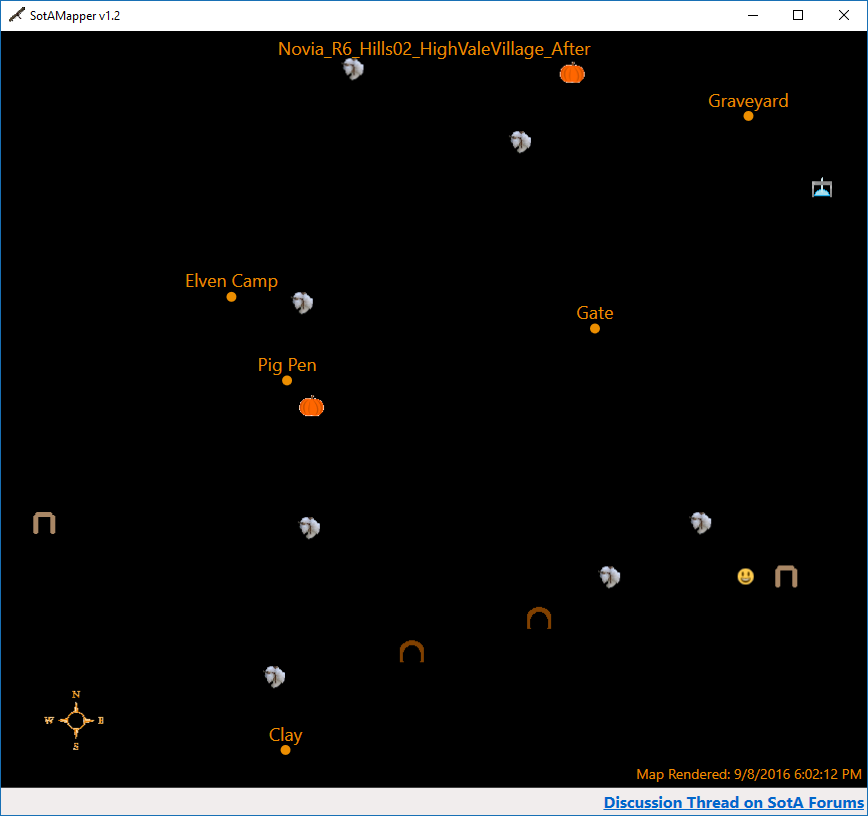
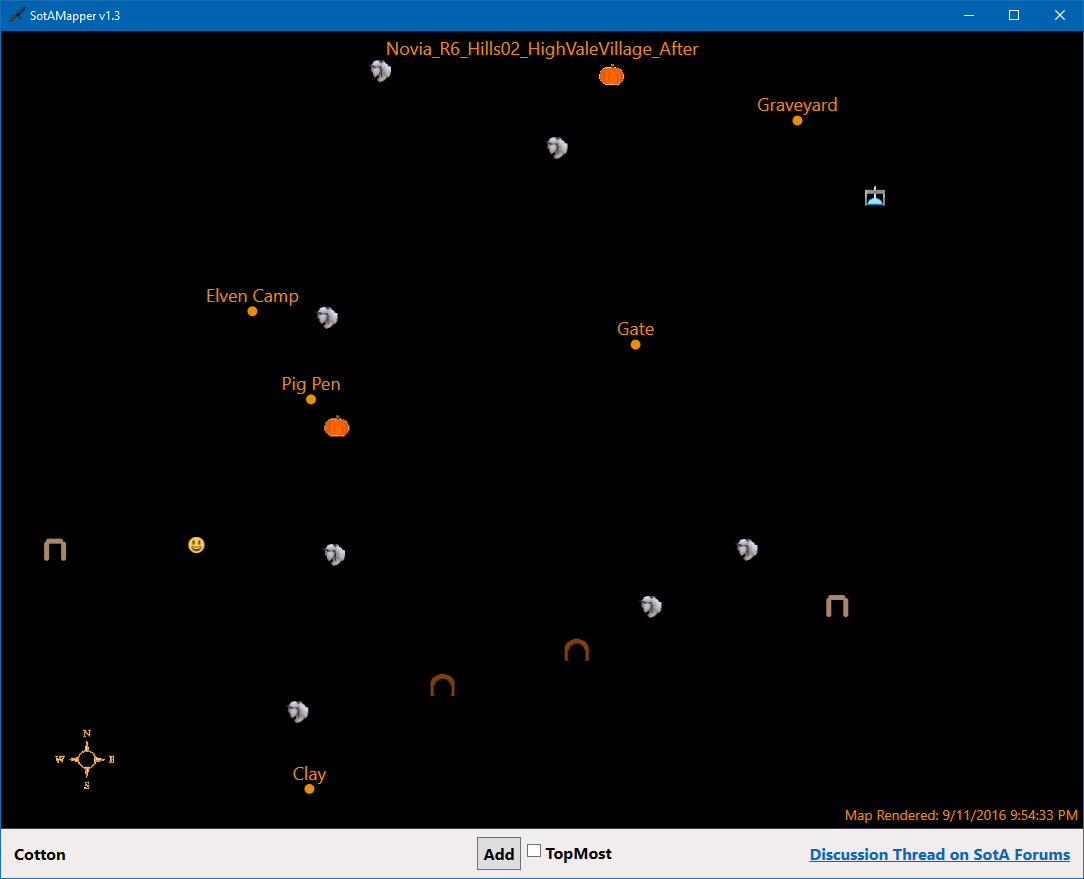
new version

diff --git a/source/Properties/AssemblyInfo.cs b/source/Properties/AssemblyInfo.cs
@@ -51,5 +51,5 @@ using System.Windows;
 // You can specify all the values or you can default the Build and Revision Numbers 
 // by using the '*' as shown below:
 // [assembly: AssemblyVersion("1.0.*")]
-[assembly: AssemblyVersion("1.2.*")]
+[assembly: AssemblyVersion("1.3.*")]
 //[assembly: AssemblyFileVersion("1.0.0.0")]
